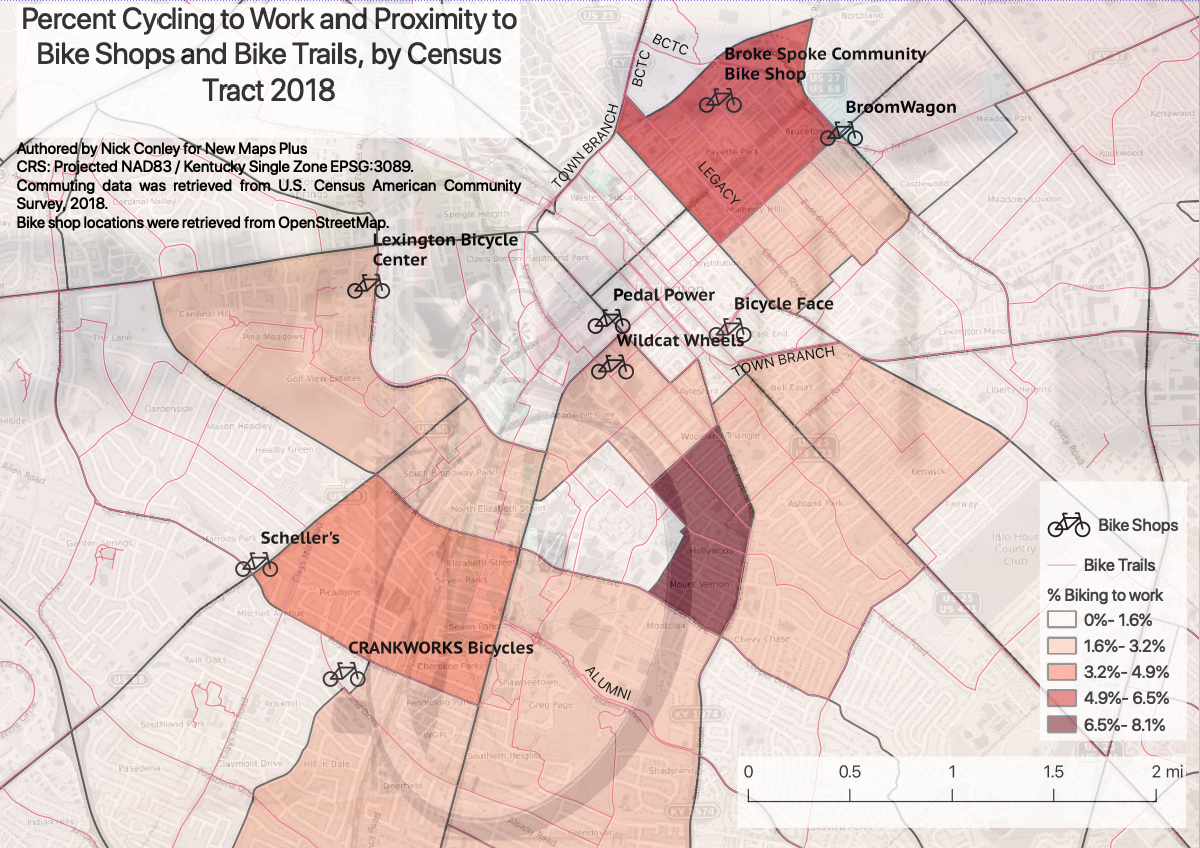
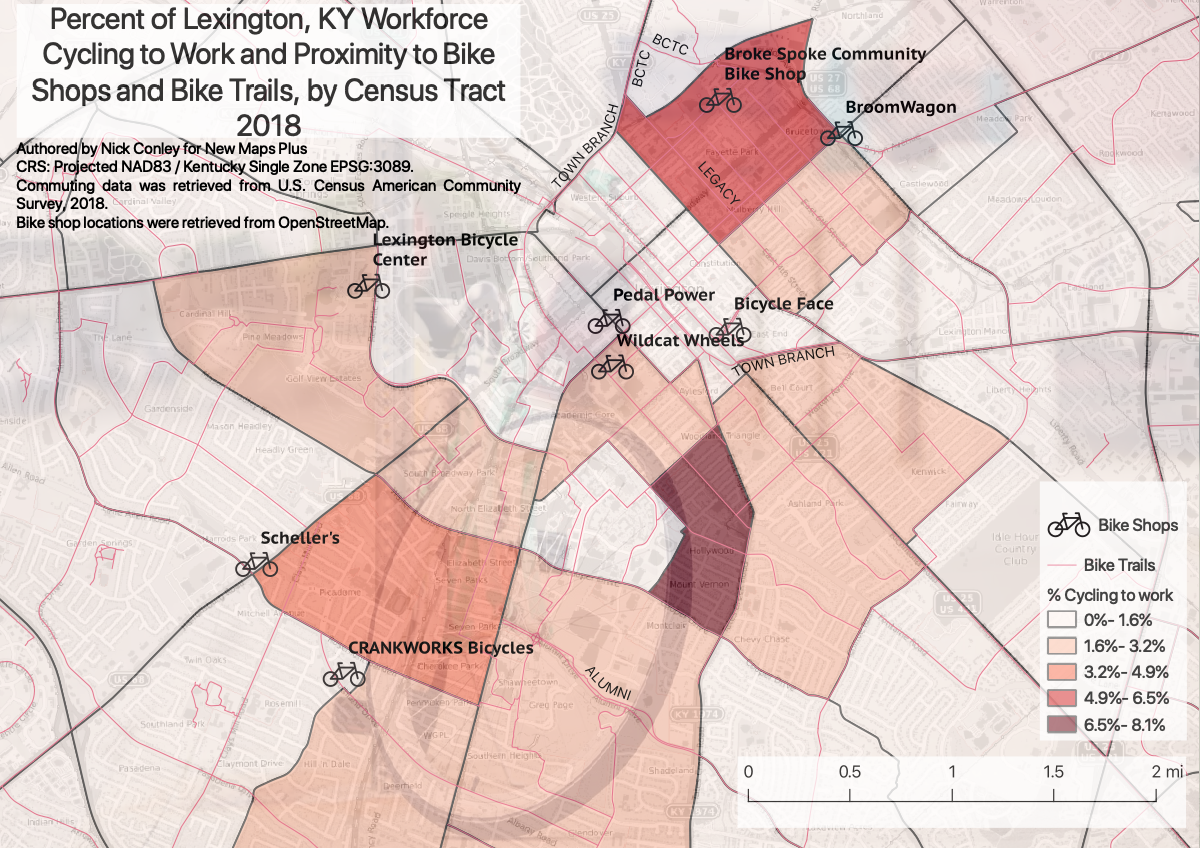
updated images

diff --git a/index.html b/index.html
@@ -151,7 +151,7 @@
     <section>
         <a href='FinalMap8000.png' class="linkbox">High Res Link</a>
 
-        <h1>Percent Lexington, Kentucky Workforce Cycling to Work by Census Tract</h1>
+        <h1>Percent of Lexington, Kentucky Workforce Cycling to Work by Census Tract</h1>
         <h2>Created for MAP 671</h2>
         <div class="row">
             <div class="first-column">
